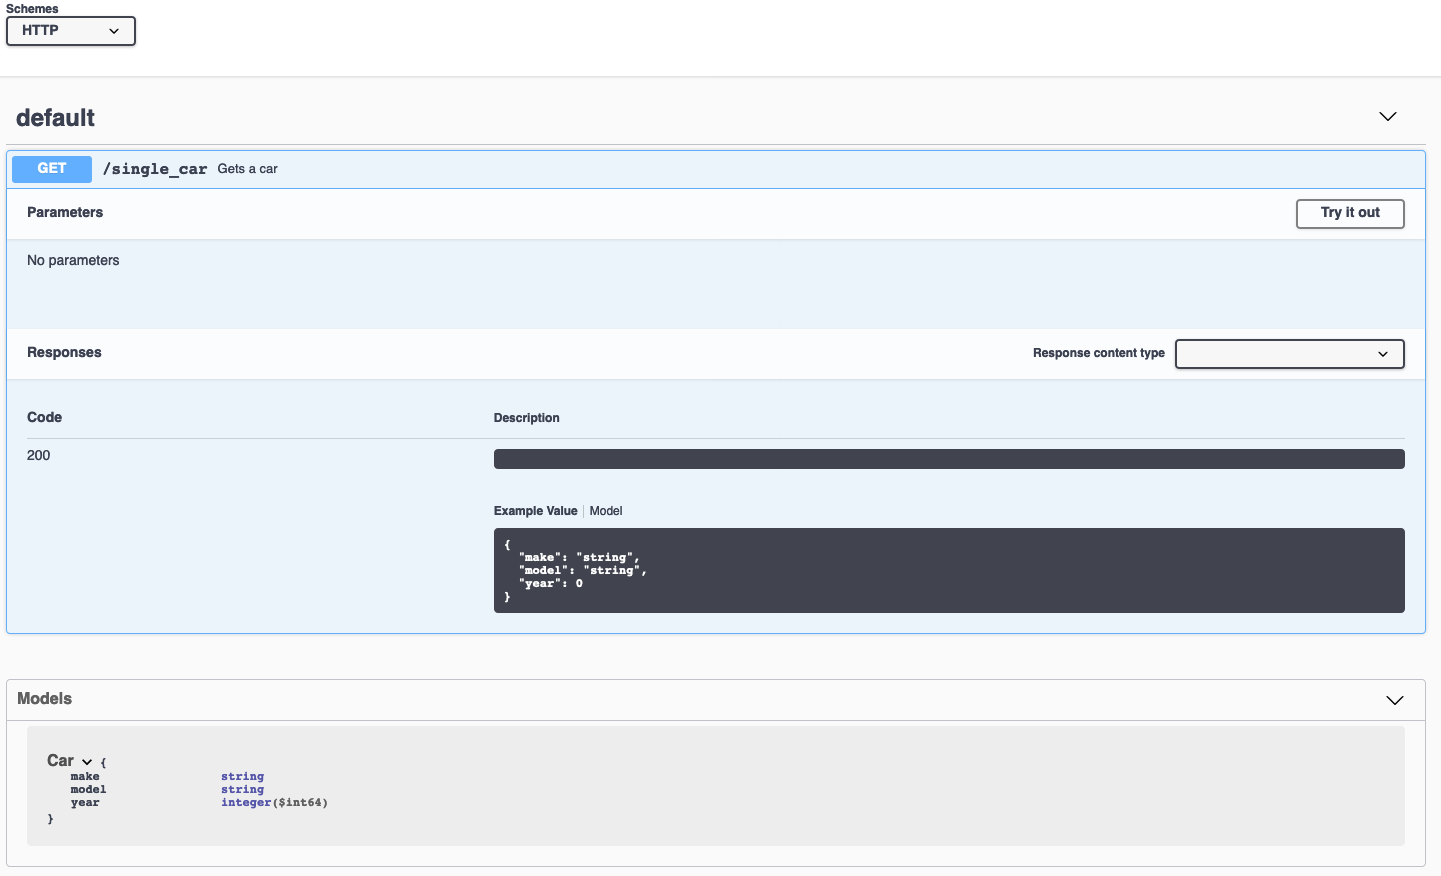
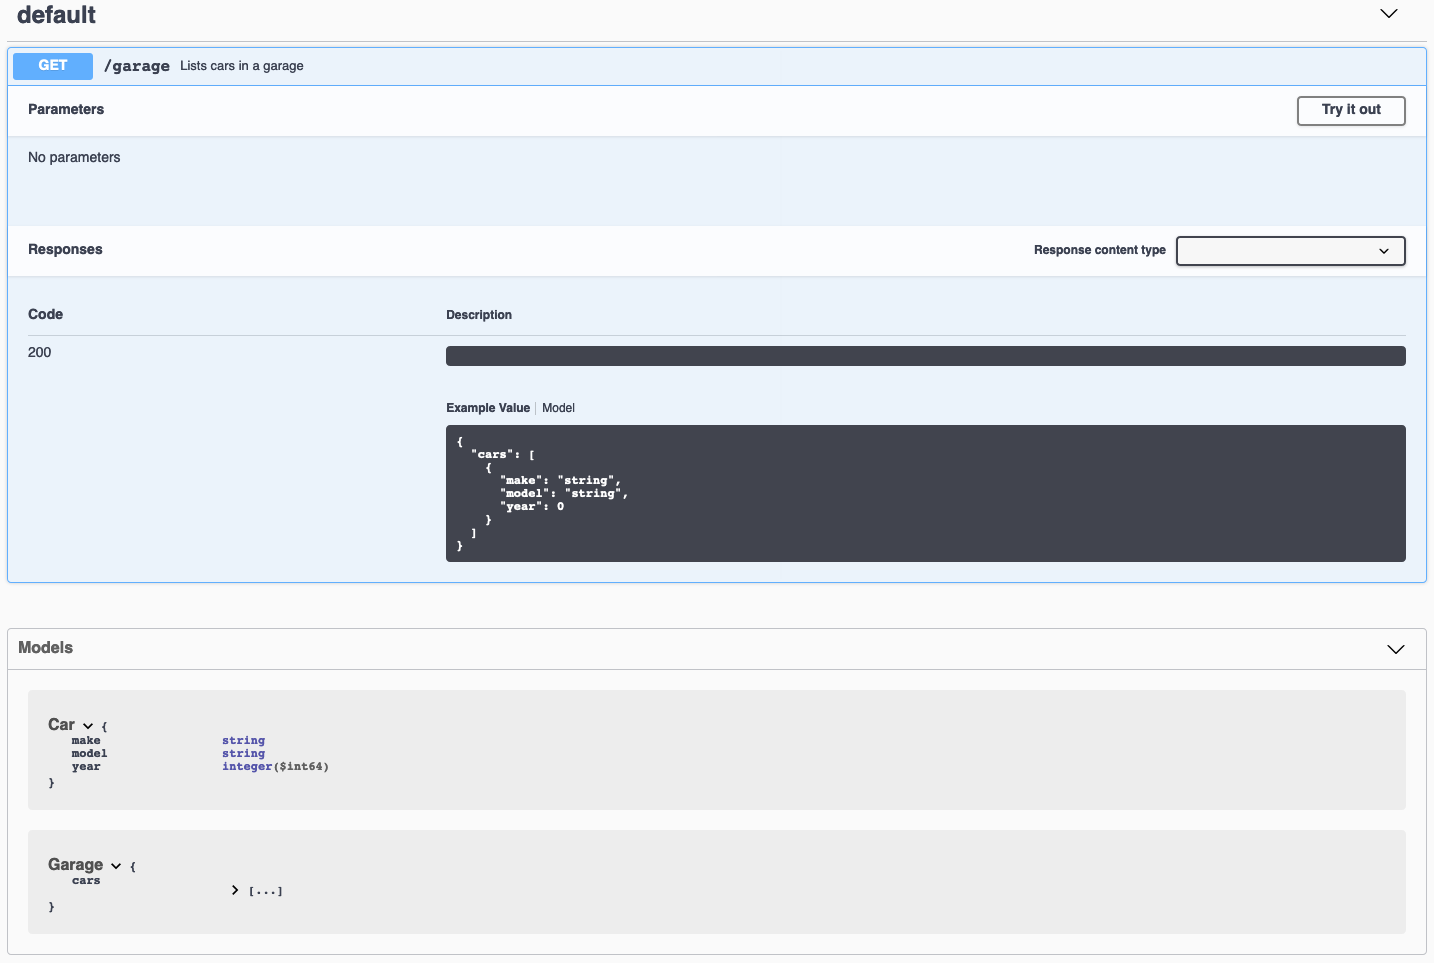
Use typing.List at the type hinting example at fields.md

diff --git a/docs/sanic_openapi/fields.md b/docs/sanic_openapi/fields.md
@@ -311,6 +311,8 @@ And the result:
 
 Provisional support, as discussed at [#128](../../../../issues/128)
 ```python
+from typing import List
+
 from sanic import Sanic
 from sanic.response import json
 
@@ -325,16 +327,19 @@ class Car:
     model: str
     year: int
 
+class Garage:
+    cars: List[Car]
 
-@app.get("/single_car")
-@doc.summary("Gets a car ")
-@doc.produces(Car)
-async def get_single_car(request):
-    return json({
+
+@app.get("/garage")
+@doc.summary("Lists cars in a garage")
+@doc.produces(Garage)
+async def get_garage(request):
+    return json([{
                  "make": "Nissan",
                  "model": "370Z",
                  "year": "2006",
-    })
+    }])
 ```
 
 And the result:
